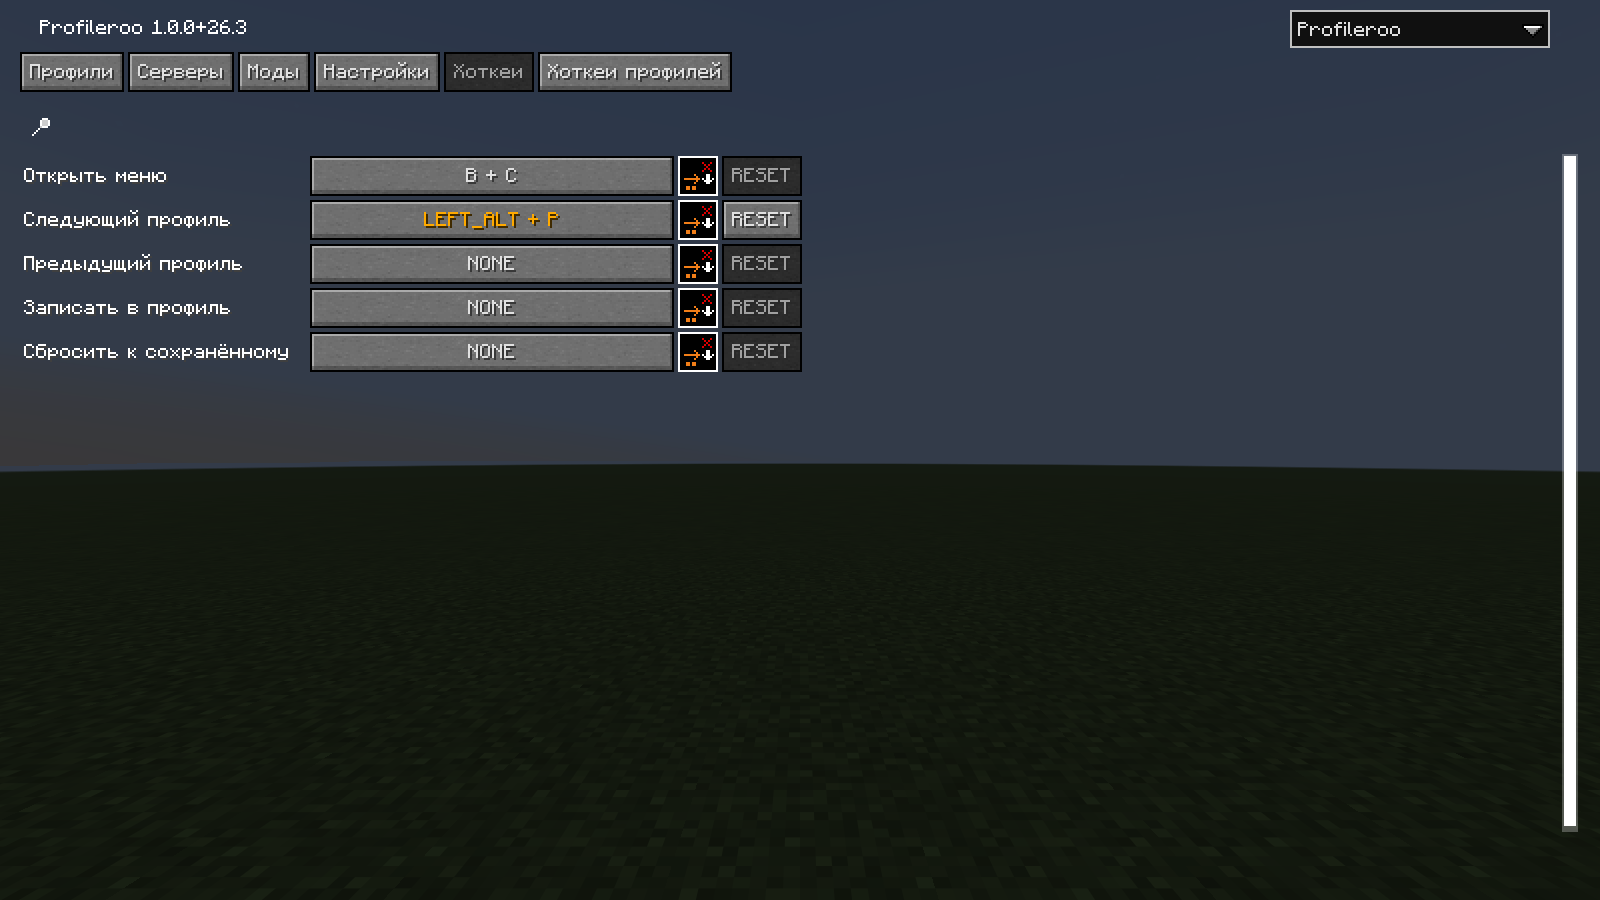
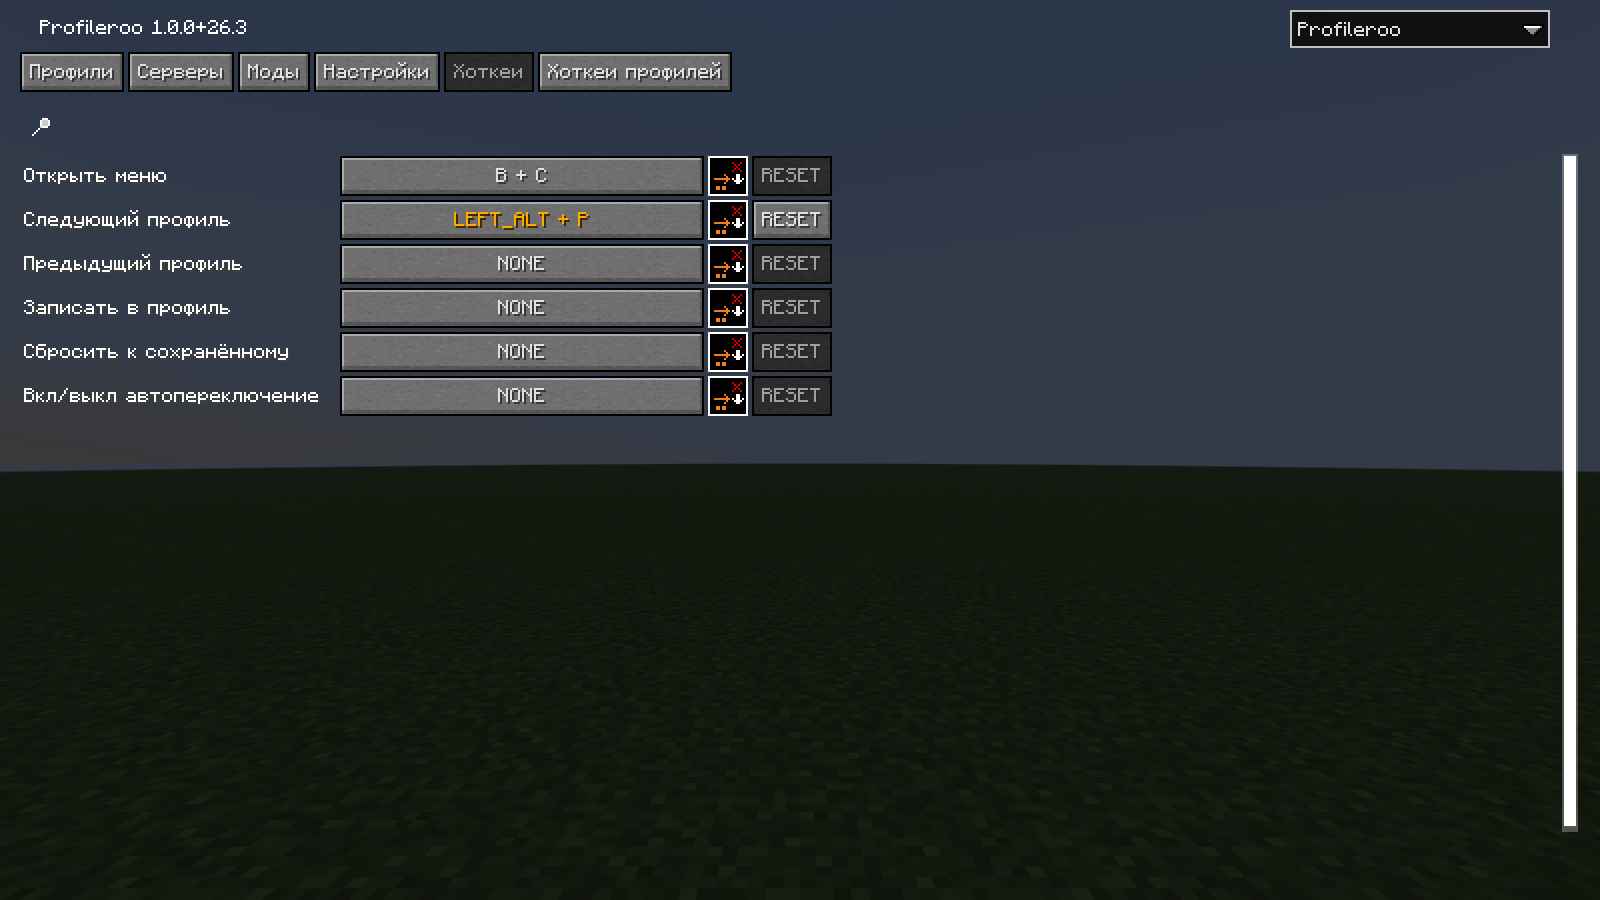
Turn auto switch on and off from the menu, a hotkey or #profile auto
The profiles and servers screens get an "Auto switch: on/off" button, there is
a new hotkey for it and #profile auto [on|off]. With auto switch off joining
keeps the profile in use, manual switches add no remembered rules, and the
status line and the server list say that the rules are not applied.

Changed region(s): [[0.0312, 0.1556, 0.5312, 0.4667]]

diff --git a/src/gametest/java/com/domen/profileroo/test/ProfilerooClientGameTest.java b/src/gametest/java/com/domen/profileroo/test/ProfilerooClientGameTest.java
@@ -221,7 +221,41 @@ public class ProfilerooClientGameTest implements FabricClientGameTest {
 			}
 			try (TestDedicatedServerConnection connection = server.connect()) {
 				connection.waitForChunksRender();
-				context.runOnClient(mc -> check(ProfileManager.getInstance().activeName().equals("cmp"), "the remembered rule works on the next join"));
+				context.runOnClient(mc -> {
+					ProfileManager manager = ProfileManager.getInstance();
+					check(manager.activeName().equals("cmp"), "the remembered rule works on the next join");
+					check(ClientCommandHandler.INSTANCE.onSendClientMessage("#profile auto off", mc) && !manager.isAutoSwitch(),
+							"#profile auto off turns switching on join off");
+					ok(manager.switchTo("default", ProfileManager.Cause.MANUAL), "manual switch with auto switch off");
+				});
+			}
+
+			// Auto switch off: the rule for this server still says cmp, but joining keeps the profile in use.
+			try (TestDedicatedServerConnection connection = server.connect()) {
+				connection.waitForChunksRender();
+				context.runOnClient(mc -> {
+					check(ProfileManager.getInstance().activeName().equals("default"), "with auto switch off the rule does not apply on join");
+					if (!mc.gui.hud.isHidden()) {
+						mc.gui.hud.toggle();
+					}
+				});
+				context.setScreen(() -> ConfigTab.SERVERS.create(null));
+				context.waitTicks(3);
+				shot(context, "screen-servers-auto-off");
+				context.setScreen(() -> null);
+				context.runOnClient(mc -> {
+					if (mc.gui.hud.isHidden()) {
+						mc.gui.hud.toggle();
+					}
+					ProfileManager manager = ProfileManager.getInstance();
+					check(ClientCommandHandler.INSTANCE.onSendClientMessage("#profile auto", mc) && manager.isAutoSwitch(),
+							"#profile auto toggles switching on join back on");
+					check(Configs.Hotkeys.HOTKEY_LIST.contains(Configs.Hotkeys.TOGGLE_AUTO_SWITCH), "the toggle has a hotkey");
+				});
+			}
+			try (TestDedicatedServerConnection connection = server.connect()) {
+				connection.waitForChunksRender();
+				context.runOnClient(mc -> check(ProfileManager.getInstance().activeName().equals("cmp"), "with auto switch on again the rule applies"));
 			}
 			context.runOnClient(mc -> ProfileManager.getInstance().setFallback(false, "default"));
 		}

diff --git a/src/main/java/com/domen/profileroo/command/ProfileCommand.java b/src/main/java/com/domen/profileroo/command/ProfileCommand.java
@@ -11,6 +11,7 @@ import fi.dy.masa.malilib.interfaces.IClientCommandListener;
 import fi.dy.masa.malilib.util.StringUtils;
 import java.util.List;
 import java.util.Locale;
+import org.jetbrains.annotations.Nullable;
 import net.minecraft.ChatFormatting;
 import net.minecraft.client.Minecraft;
 import net.minecraft.network.chat.Component;
@@ -64,6 +65,7 @@ public class ProfileCommand implements IClientCommandListener {
 			case "delete", "remove" -> a == null ? usage("delete <name>") : manager.delete(a);
 			case "lock" -> manager.setLocked(a == null ? manager.activeName() : a, true);
 			case "unlock" -> manager.setLocked(a == null ? manager.activeName() : a, false);
+			case "auto" -> this.auto(manager, a);
 			case "bind" -> manager.bindCurrent(a);
 			case "unbind" -> manager.unbindCurrent();
 			// "#profile smp" is the short form of "#profile switch smp".
@@ -73,6 +75,18 @@ public class ProfileCommand implements IClientCommandListener {
 			Messages.chat(result);
 		}
 		return true;
+	}
+
+	/** {@code #profile auto} toggles, {@code #profile auto on|off} sets. */
+	private OpResult auto(ProfileManager manager, @Nullable String arg) {
+		if (arg == null) {
+			return manager.setAutoSwitch(!manager.isAutoSwitch());
+		}
+		return switch (arg.toLowerCase(Locale.ROOT)) {
+			case "on", "true", "вкл", "1" -> manager.setAutoSwitch(true);
+			case "off", "false", "выкл", "0" -> manager.setAutoSwitch(false);
+			default -> usage("auto [on|off]");
+		};
 	}
 
 	private static OpResult usage(String usage) {
@@ -98,6 +112,9 @@ public class ProfileCommand implements IClientCommandListener {
 					: StringUtils.translate("profileroo.label.reason_rule", resolution.rule().pattern);
 			String profile = resolution == null || resolution.profile() == null ? "—" : resolution.profile();
 			Messages.chat(Component.literal(StringUtils.translate("profileroo.command.here", session.label(), profile, by)).withStyle(ChatFormatting.GRAY));
+		}
+		if (!manager.isAutoSwitch()) {
+			Messages.chat(Component.literal(StringUtils.translate("profileroo.command.auto_off_note", COMMAND)).withStyle(ChatFormatting.GOLD));
 		}
 		Messages.chat(Component.literal(StringUtils.translate("profileroo.command.help_hint", COMMAND)).withStyle(ChatFormatting.DARK_GRAY));
 	}

diff --git a/src/main/java/com/domen/profileroo/gui/GuiRowListBase.java b/src/main/java/com/domen/profileroo/gui/GuiRowListBase.java
@@ -8,6 +8,7 @@ import com.domen.profileroo.profile.OpResult;
 import com.domen.profileroo.profile.ProfileManager;
 import fi.dy.masa.malilib.gui.GuiBase;
 import fi.dy.masa.malilib.gui.GuiListBase;
+import fi.dy.masa.malilib.gui.button.ButtonGeneric;
 import fi.dy.masa.malilib.render.GuiContext;
 import fi.dy.masa.malilib.util.InfoUtils;
 import fi.dy.masa.malilib.util.StringUtils;
@@ -62,6 +63,22 @@ public abstract class GuiRowListBase<T> extends GuiListBase<T, WidgetRow<T>, Wid
 		this.initGui();
 	}
 
+	/** The "auto switch: on/off" toggle, right-aligned at {@code right}. Returns its left edge. */
+	protected int addAutoSwitchButton(int right, int y) {
+		ProfileManager manager = ProfileManager.getInstance();
+		String state = manager.isAutoSwitch()
+				? GuiBase.TXT_GREEN + StringUtils.translate("profileroo.gui.label.on")
+				: GuiBase.TXT_RED + StringUtils.translate("profileroo.gui.label.off");
+		ButtonGeneric button = new ButtonGeneric(right, y, -1, 20, StringUtils.translate("profileroo.gui.button.auto_switch", state + GuiBase.TXT_RST));
+		button.setX(right - button.getWidth());
+		button.setHoverStrings(WidgetRow.splitLines(StringUtils.translate("profileroo.gui.hover.auto_switch")));
+		this.addButton(button, (b, mouseButton) -> {
+			this.show(manager.setAutoSwitch(!manager.isAutoSwitch()));
+			this.refresh();
+		});
+		return button.getX();
+	}
+
 	public void show(OpResult result) {
 		InfoUtils.showGuiMessage(result.type(), result.key(), result.args());
 	}
@@ -70,6 +87,9 @@ public abstract class GuiRowListBase<T> extends GuiListBase<T, WidgetRow<T>, Wid
 	protected String statusLine() {
 		ProfileManager manager = ProfileManager.getInstance();
 		String active = StringUtils.translate("profileroo.gui.label.active", GuiBase.TXT_GREEN + manager.activeName() + GuiBase.TXT_RST);
+		if (!manager.isAutoSwitch()) {
+			active += GuiBase.TXT_GRAY + "  ·  " + GuiBase.TXT_RED + StringUtils.translate("profileroo.gui.label.auto_off");
+		}
 		SessionInfo session = manager.session();
 		if (session == null) {
 			return active + GuiBase.TXT_GRAY + "  ·  " + StringUtils.translate("profileroo.gui.label.not_in_world");

diff --git a/src/main/java/com/domen/profileroo/profile/ProfileManager.java b/src/main/java/com/domen/profileroo/profile/ProfileManager.java
@@ -255,7 +255,9 @@ public final class ProfileManager {
 			return OpResult.info("profileroo.message.already_active", target.name);
 		}
 		OpResult result = this.doSwitch(target, cause != Cause.JOIN);
-		if (result.ok() && cause != Cause.JOIN && this.session != null && Configs.Generic.REMEMBER_MANUAL_CHOICE.getBooleanValue()) {
+		// Remembered rules only matter when joining switches profiles, so nothing is remembered while that is off.
+		if (result.ok() && cause != Cause.JOIN && this.session != null && Configs.Generic.REMEMBER_MANUAL_CHOICE.getBooleanValue()
+				&& Configs.Generic.AUTO_SWITCH.getBooleanValue()) {
 			Resolution resolution = this.state.resolve(this.session);
 			// Only where no rule decides: an explicit rule is the player's word and a manual switch may be temporary.
 			if (resolution.isFallback() && !target.name.equalsIgnoreCase(String.valueOf(resolution.profile()))) {
@@ -265,6 +267,19 @@ public final class ProfileManager {
 			}
 		}
 		return result;
+	}
+
+	public boolean isAutoSwitch() {
+		return Configs.Generic.AUTO_SWITCH.getBooleanValue();
+	}
+
+	/** Turns switching on join on or off; manual switching keeps working either way. */
+	public OpResult setAutoSwitch(boolean enabled) {
+		Configs.Generic.AUTO_SWITCH.setBooleanValue(enabled);
+		Configs.saveToFile();
+		return enabled
+				? OpResult.success("profileroo.message.auto_on")
+				: OpResult.warning("profileroo.message.auto_off");
 	}
 
 	public void switchByHotkey(String name) {

diff --git a/src/main/java/com/domen/profileroo/gui/GuiServers.java b/src/main/java/com/domen/profileroo/gui/GuiServers.java
@@ -51,6 +51,8 @@ public class GuiServers extends GuiRowListBase<GuiServers.Entry> {
 			this.show(manager.bindCurrent(null));
 			this.refresh();
 		});
+
+		this.addAutoSwitchButton(this.getScreenWidth() - 12, y);
 	}
 
 	@Override
@@ -171,12 +173,15 @@ public class GuiServers extends GuiRowListBase<GuiServers.Entry> {
 					GuiServers.this.refresh();
 				}, cycleHover);
 			}
-			this.setHighlighted(this.decisive);
+			this.setHighlighted(this.decisive && manager.isAutoSwitch());
 		}
 
 		@Override
 		protected String text() {
-			String mark = this.decisive ? GuiBase.TXT_GREEN + "  ◀ " + StringUtils.translate("profileroo.gui.label.applies_here") : "";
+			String mark = !this.decisive ? ""
+					: ProfileManager.getInstance().isAutoSwitch()
+					? GuiBase.TXT_GREEN + "  ◀ " + StringUtils.translate("profileroo.gui.label.applies_here")
+					: GuiBase.TXT_GRAY + "  ◀ " + StringUtils.translate("profileroo.gui.label.would_apply_here");
 			if (this.rowEntry instanceof RuleEntry(int ruleIndex, ServerRule rule)) {
 				String pattern = rule.pattern.isEmpty() ? GuiBase.TXT_RED + StringUtils.translate("profileroo.gui.label.empty_pattern") : rule.pattern;
 				return GuiBase.TXT_GRAY + (ruleIndex + 1) + ". " + GuiBase.TXT_WHITE + pattern + mark;

diff --git a/src/main/java/com/domen/profileroo/config/Configs.java b/src/main/java/com/domen/profileroo/config/Configs.java
@@ -48,13 +48,15 @@ public class Configs implements IConfigHandler {
 		public static final ConfigHotkey PREVIOUS_PROFILE = new ConfigHotkey("previousProfile", "").apply(KEY);
 		public static final ConfigHotkey SAVE_PROFILE = new ConfigHotkey("saveProfile", "").apply(KEY);
 		public static final ConfigHotkey RESET_PROFILE = new ConfigHotkey("resetProfile", "").apply(KEY);
+		public static final ConfigHotkey TOGGLE_AUTO_SWITCH = new ConfigHotkey("toggleAutoSwitch", "").apply(KEY);
 
 		public static final ImmutableList<ConfigHotkey> HOTKEY_LIST = ImmutableList.of(
 				OPEN_GUI,
 				NEXT_PROFILE,
 				PREVIOUS_PROFILE,
 				SAVE_PROFILE,
-				RESET_PROFILE
+				RESET_PROFILE,
+				TOGGLE_AUTO_SWITCH
 		);
 	}
 

diff --git a/src/main/java/com/domen/profileroo/event/KeybindProvider.java b/src/main/java/com/domen/profileroo/event/KeybindProvider.java
@@ -57,6 +57,8 @@ public class KeybindProvider implements IKeybindProvider, IHotkeyCallback {
 			result = manager.saveActive();
 		} else if (key == Configs.Hotkeys.RESET_PROFILE.getKeybind()) {
 			result = manager.resetActive();
+		} else if (key == Configs.Hotkeys.TOGGLE_AUTO_SWITCH.getKeybind()) {
+			result = manager.setAutoSwitch(!manager.isAutoSwitch());
 		} else {
 			return false;
 		}

diff --git a/src/main/java/com/domen/profileroo/gui/GuiProfiles.java b/src/main/java/com/domen/profileroo/gui/GuiProfiles.java
@@ -59,6 +59,7 @@ public class GuiProfiles extends GuiRowListBase<ProfileData> {
 			ProfileManager manager = ProfileManager.getInstance();
 			new FileOpener(manager.store().configDir()).openPath(manager.store().profilesDir());
 		});
+		this.addAutoSwitchButton(folder.getX() - 4, y);
 	}
 
 	@Override
